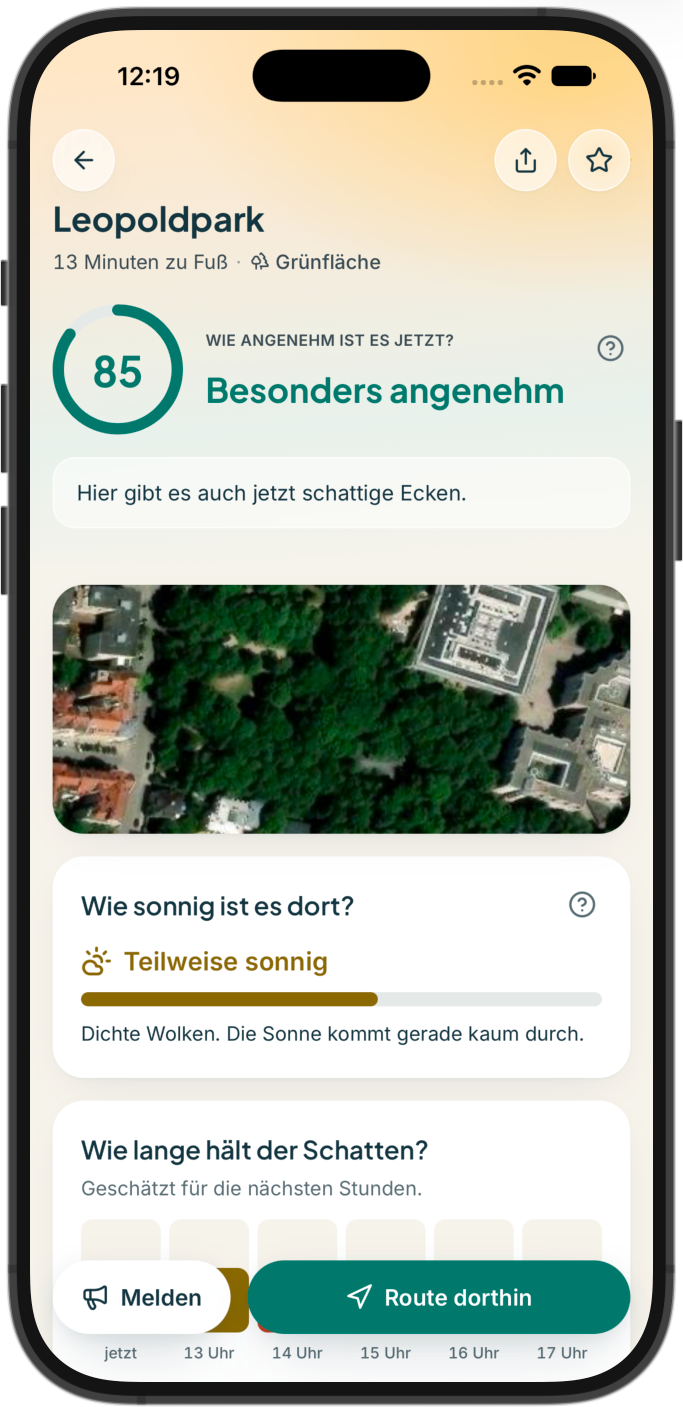
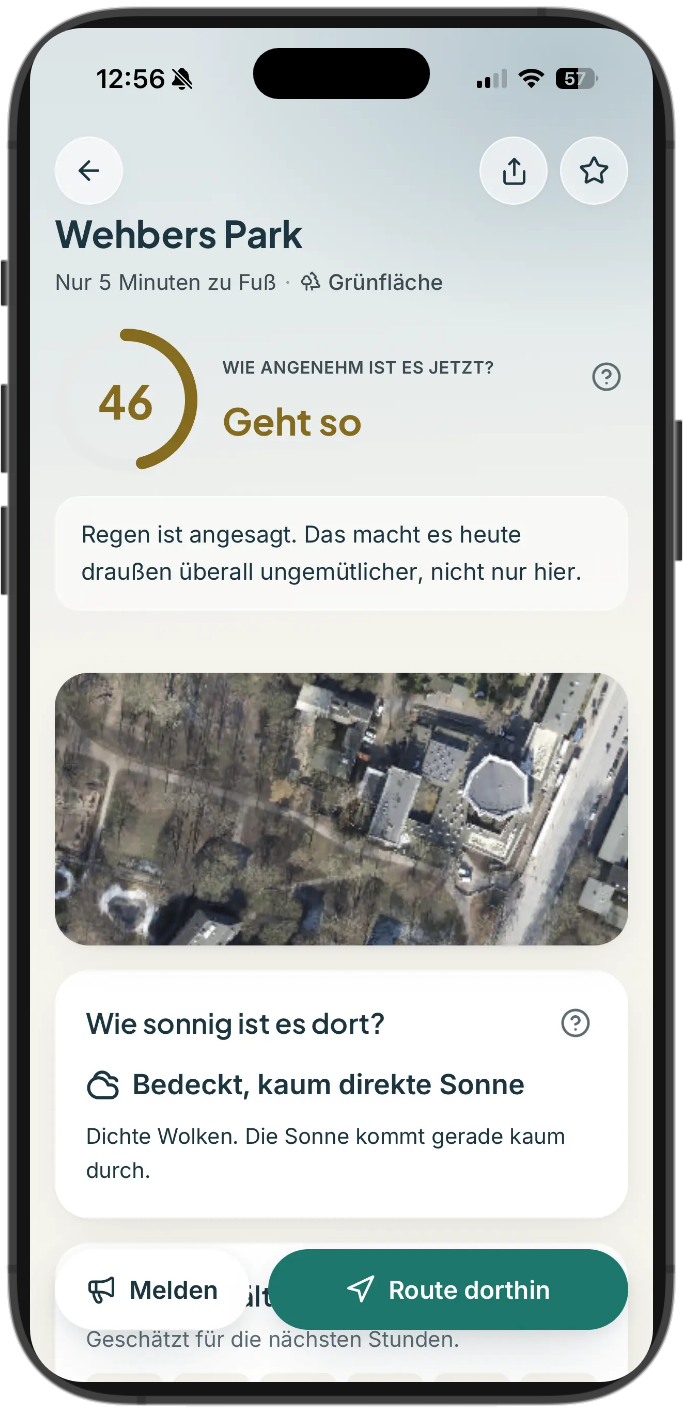
Landing: frische iPhone-Screenshots (Build 12) in den Rahmen montiert, freigestellt
Nicolas lieferte zwei neue randlose Screenshots (webp, 1206x2622) vom
echten iPhone mit Build 12: aufgeräumter Startbildschirm („Plätze in
deiner Nähe", kein Hinweiskasten, kein Filter) und die Detailseite mit
dem neuen Regen-Satz. Werkzeugkette (scratchpad):

- montiere-frames.mjs: Inhalt in den Geräterahmen der ersten CleanShots
  montiert (feste Rahmen-Geometrie 30/28/623, Dynamic Island neu
  gezeichnet; automatische Kanten-Erkennung stolperte über dunkle
  Pixel im Luftbild)
- freistellen.mjs: weißen CleanShot-Hintergrund per Rand-Flutfüllung
  transparent gemacht (Weiß IM Bildschirm bleibt) – vorher stand das
  Hero-iPhone in einem weißen Kasten auf dem Verlauf

Alt-Texte an den Regentag-Inhalt angepasst. Geprüft bei 1440.
Typecheck, Lint, 146 Tests grün.

diff --git a/components/landing/Landing.tsx b/components/landing/Landing.tsx
@@ -65,7 +65,7 @@ export function Landing() {
             {/* eslint-disable-next-line @next/next/no-img-element */}
             <img
               src="/app-geraet-start.png"
-              alt="Die PlatzDa-App auf dem iPhone: Startbildschirm mit Wetter, Werteleiste und der besten Wahl gerade, einem Park mit 85 von 100"
+              alt="Die PlatzDa-App auf dem iPhone: Startbildschirm mit Wetter, Werteleiste und der besten Wahl gerade an einem Regentag"
               width={683}
               height={1405}
               className="w-full drop-shadow-[0_18px_40px_rgba(28,53,64,0.35)]"
@@ -81,7 +81,7 @@ export function Landing() {
             {/* eslint-disable-next-line @next/next/no-img-element */}
             <img
               src="/app-geraet-detail.png"
-              alt="Die Detailseite eines Parks in der PlatzDa-App auf dem iPhone: 85 von 100, besonders angenehm, mit Luftbild und der Karte, wie sonnig es dort ist"
+              alt="Die Detailseite eines Parks in der PlatzDa-App auf dem iPhone: Bewertung, ehrlicher Regen-Hinweis, Luftbild und die Karte, wie sonnig es dort ist"
               width={683}
               height={1407}
               className="mx-auto w-52 drop-shadow-[0_14px_32px_rgba(28,53,64,0.3)] lg:w-60"
